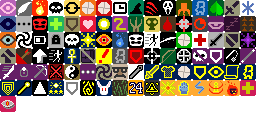
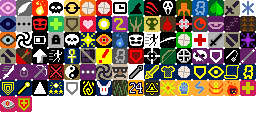
反转伤害

Changed region(s): [[0.0625, 0.75, 0.125, 0.875]]

diff --git a/core/src/main/java/com/shatteredpixel/shatteredpixeldungeon/runes/spells/AbsorbDamage.java b/core/src/main/java/com/shatteredpixel/shatteredpixeldungeon/runes/spells/AbsorbDamage.java
@@ -1,0 +1,121 @@
+package com.shatteredpixel.shatteredpixeldungeon.runes.spells;
+
+import com.shatteredpixel.shatteredpixeldungeon.Dungeon;
+import com.shatteredpixel.shatteredpixeldungeon.actors.Actor;
+import com.shatteredpixel.shatteredpixeldungeon.actors.buffs.Buff;
+import com.shatteredpixel.shatteredpixeldungeon.actors.hero.Hero;
+import com.shatteredpixel.shatteredpixeldungeon.effects.FloatingText;
+import com.shatteredpixel.shatteredpixeldungeon.items.implement.Implement;
+import com.shatteredpixel.shatteredpixeldungeon.messages.Messages;
+import com.shatteredpixel.shatteredpixeldungeon.sprites.CharSprite;
+import com.shatteredpixel.shatteredpixeldungeon.ui.BuffIndicator;
+import com.shatteredpixel.shatteredpixeldungeon.utils.GLog;
+import com.watabou.utils.Bundle;
+
+public class AbsorbDamage extends TargetedSpell{
+    public static AbsorbDamage INSTANCE = new AbsorbDamage();
+
+    {
+        type = TYPE.PHYSICAL;
+        icon = ABSORB_DAMAGE;
+        tier = 4;
+    }
+
+    @Override
+    protected void onTargetSelected(Implement implement, Hero hero, Integer target){
+        if (target == null){
+            return;
+        }
+
+        if (!Dungeon.level.heroFOV[target] || Actor.findChar(target)==null){
+            GLog.w(Messages.get(this, "no_target"));
+            return;
+        } else {
+            hero.busy();
+            hero.sprite.operate(hero.pos);
+
+            Buff.affect(hero, Absorbing.class).setLeft(2f*implement.powerMultiplier(hero, this));
+
+            hero.spendAndNext(implement.delay(hero, this));
+            onSpellCast(implement, hero);
+        }
+    }
+
+    public static class Absorbing extends Buff {
+        {
+            type = buffType.NEUTRAL;
+            announced = true;
+        }
+
+        private static final float DURATION = 2f;
+
+        private float left = 0f;
+        private float damage = 0f;
+
+        private static final String LEFT	= "left";
+        private static final String DAMAGE	= "damage";
+
+        @Override
+        public void storeInBundle( Bundle bundle ) {
+            super.storeInBundle( bundle );
+            bundle.put( LEFT, left );
+            bundle.put( DAMAGE, damage );
+        }
+
+        @Override
+        public void restoreFromBundle( Bundle bundle ) {
+            super.restoreFromBundle(bundle);
+            left = bundle.getFloat( LEFT );
+            damage = bundle.getFloat( DAMAGE );
+        }
+
+        public float absorb(float damage) {
+            float toAbsorb = damage * 0.8f;
+            this.damage += toAbsorb;
+            return damage - toAbsorb;
+        }
+
+        public void setLeft(float left) {
+            if (left>this.left) this.left = left;
+        }
+
+        public float getLeft() {
+            return left;
+        }
+
+        public void extend(float extension) {
+            left += extension;
+        }
+
+        @Override
+        public void detach() {
+            int toHeal = Math.round(damage / 4);
+            if (target.HP < target.HT) {
+                target.HP = Math.min(target.HT, target.HP + toHeal);
+            }
+            target.sprite.showStatusWithIcon(CharSprite.POSITIVE, Integer.toString(toHeal), FloatingText.HEALING);
+
+            super.detach();
+        }
+
+        @Override
+        public int icon() {
+            return BuffIndicator.ABSORB_DAMAGE;
+        }
+
+        @Override
+        public float iconFadePercent() {
+            return Math.max(0, (DURATION - left) / DURATION);
+        }
+
+        @Override
+        public String iconTextDisplay() {
+            return Integer.toString((int)left);
+        }
+
+        @Override
+        public String desc() {
+            return Messages.get(this, "desc", dispTurns(left));
+        }
+    }
+}

diff --git a/core/src/main/java/com/shatteredpixel/shatteredpixeldungeon/actors/hero/Hero.java b/core/src/main/java/com/shatteredpixel/shatteredpixeldungeon/actors/hero/Hero.java
@@ -165,6 +165,7 @@ import com.shatteredpixel.shatteredpixeldungeon.levels.traps.Trap;
 import com.shatteredpixel.shatteredpixeldungeon.mechanics.Ballistica;
 import com.shatteredpixel.shatteredpixeldungeon.mechanics.ShadowCaster;
 import com.shatteredpixel.shatteredpixeldungeon.messages.Messages;
+import com.shatteredpixel.shatteredpixeldungeon.runes.spells.AbsorbDamage;
 import com.shatteredpixel.shatteredpixeldungeon.runes.spells.ElectricTouch;
 import com.shatteredpixel.shatteredpixeldungeon.scenes.AlchemyScene;
 import com.shatteredpixel.shatteredpixeldungeon.scenes.GameScene;
@@ -1612,6 +1613,11 @@ public class Hero extends Char {
 
 		//temporarily assign to a float to avoid rounding a bunch
 		float damage = dmg;
+
+		AbsorbDamage.Absorbing absorbing = buff(AbsorbDamage.Absorbing.class);
+		if (absorbing != null) {
+			damage = absorbing.absorb(damage);
+		}
 
 		Endure.EndureTracker endure = buff(Endure.EndureTracker.class);
 		if (!(src instanceof Char)){

diff --git a/core/src/main/java/com/shatteredpixel/shatteredpixeldungeon/ui/BuffIndicator.java b/core/src/main/java/com/shatteredpixel/shatteredpixeldungeon/ui/BuffIndicator.java
@@ -148,6 +148,7 @@ public class BuffIndicator extends Component {
 	public static final int LIVINGFIRE	= 94;
 	public static final int RECOVERING	= 95;
 	public static final int ANATOMICAL_VIEWS	= 96;
+	public static final int ABSORB_DAMAGE		= 97;
 
 	public static final int SIZE_SMALL  = 7;
 	public static final int SIZE_LARGE  = 16;
